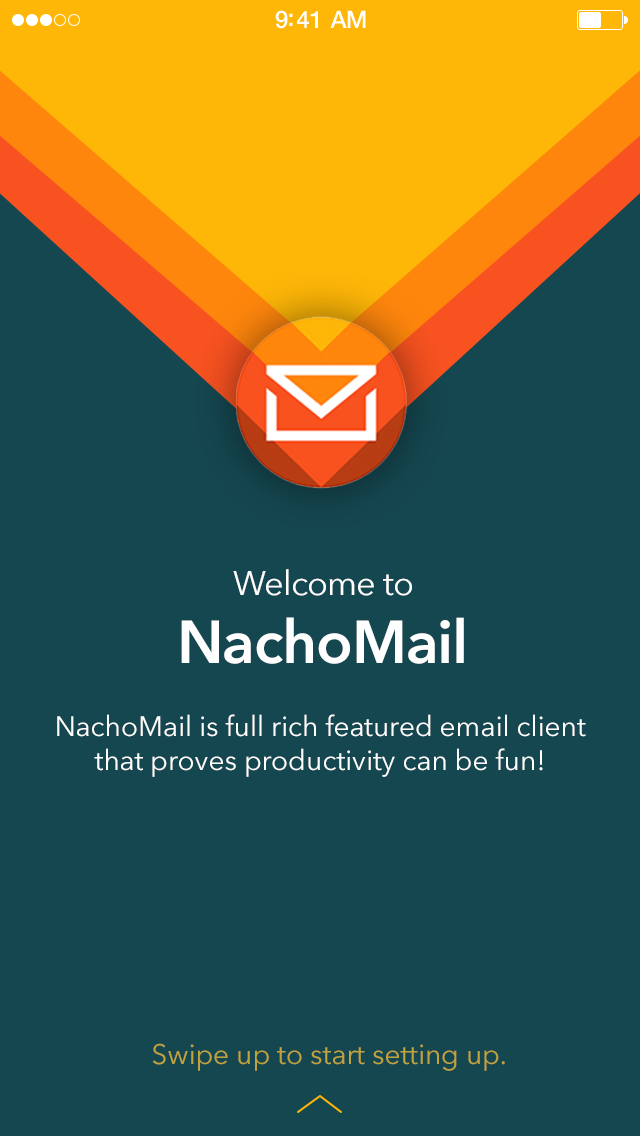
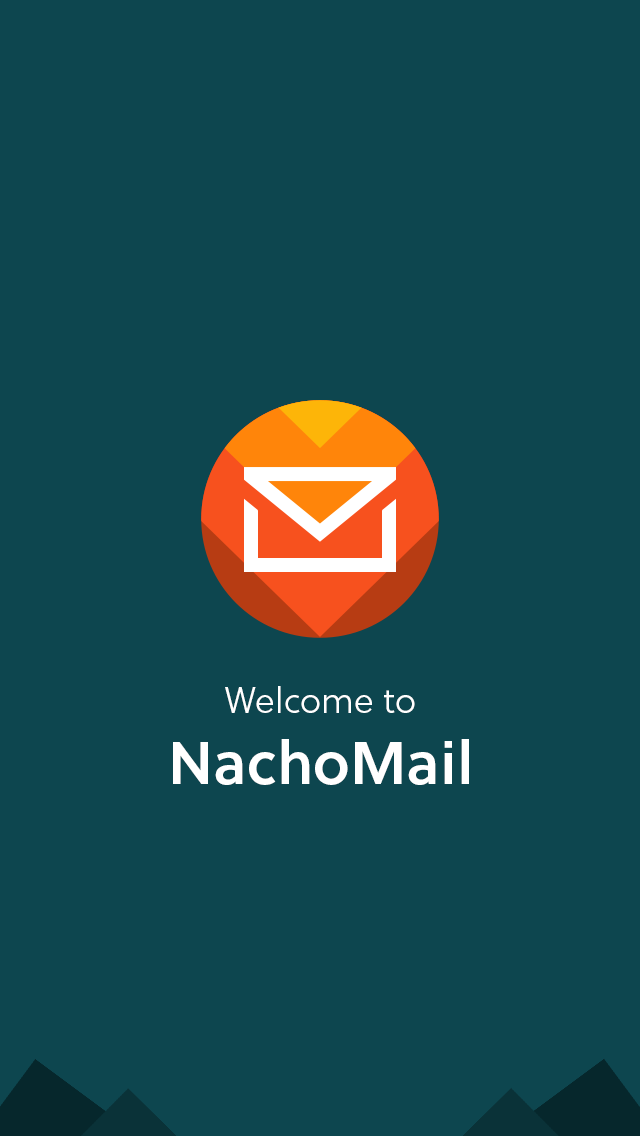
Updated Login Screen, added new Splash Screens

diff --git a/NachoClient.iOS/NachoUI.iOS/LaunchViewController.cs b/NachoClient.iOS/NachoUI.iOS/LaunchViewController.cs
@@ -8,6 +8,7 @@ using MonoTouch.UIKit;
 using NachoCore;
 using NachoCore.Model;
 using NachoCore.Utils;
+using MonoTouch.CoreGraphics;
 
 namespace NachoClient.iOS
 {
@@ -17,6 +18,13 @@ namespace NachoClient.iOS
 
         float yOffset;
         float keyboardHeight;
+
+        protected UIImageView circleMail;
+        protected UILabel startLabel;
+        protected UIView emailBox;
+        protected UIView passwordBox;
+        protected UIButton submitButton;
+        protected UIButton advancedButton;
 
         public LaunchViewController (IntPtr handle) : base (handle)
         {
@@ -47,6 +55,24 @@ namespace NachoClient.iOS
                 NSNotificationCenter.DefaultCenter.AddObserver (UIKeyboard.WillShowNotification, OnKeyboardNotification);
                 NSNotificationCenter.DefaultCenter.AddObserver (UITextField.TextFieldTextDidChangeNotification, OnTextFieldChanged);
             }
+
+            UIView.AnimateKeyframes (1.6, 0, UIViewKeyframeAnimationOptions.OverrideInheritedDuration, () => {
+
+                UIView.AddKeyframeWithRelativeStartTime (0, .5, () => {
+                    circleMail.Transform = CGAffineTransform.MakeScale (2.0f / 3.0f, 2.0f / 3.0f);
+                    circleMail.Center = new PointF (160, View.Frame.Height / 4.369f);
+                });
+
+                UIView.AddKeyframeWithRelativeStartTime (.5, .5, () => {
+                    startLabel.Alpha = 1.0f;
+                    emailBox.Alpha = 1.0f;
+                    passwordBox.Alpha = 1.0f;
+                    submitButton.Alpha = 1.0f;
+                    advancedButton.Alpha = 1.0f;
+                });
+
+            }, ((bool finished) => {
+            }));
         }
 
         public override void ViewWillDisappear (bool animated)
@@ -78,27 +104,29 @@ namespace NachoClient.iOS
             scrollView.BackgroundColor = A.Color_NachoGreen;
             contentView.BackgroundColor = A.Color_NachoGreen;
 
-            yOffset = 90;
+            //yOffset = View.Frame.Height - 368;
 
-            UIImageView circleMail = new UIImageView (UIImage.FromBundle ("Loginscreen-1"));
-            circleMail.Frame = new RectangleF (120, yOffset, 80, 80);
+            circleMail = new UIImageView (UIImage.FromBundle ("Bootscreen-1"));
+            circleMail.Frame = new RectangleF (View.Frame.Width / 2 - 60, (View.Frame.Height == 480 ? 155 : 200), 120, 120);
             contentView.AddSubview (circleMail);
 
-            yOffset = circleMail.Frame.Bottom + 35;
+            yOffset = View.Frame.Height - 363 + (View.Frame.Height == 480 ? 40 : 0);
 
-            UILabel startLabel = new UILabel (new RectangleF (30, yOffset, View.Frame.Width - 60, 50));
+            startLabel = new UILabel (new RectangleF (30, yOffset, View.Frame.Width - 60, 50));
             startLabel.Text = "Start by entering your Exchange email address and password.";
             startLabel.Lines = 2;
             startLabel.BackgroundColor = A.Color_NachoGreen;
             startLabel.TextColor = UIColor.White;
             startLabel.Font = A.Font_AvenirNextRegular17;
             startLabel.TextAlignment = UITextAlignment.Center;
+            startLabel.Alpha = 0.0f;
             contentView.AddSubview (startLabel);
 
             yOffset = startLabel.Frame.Bottom + 32f;
 
-            UIView emailBox = new UIView (new RectangleF (25, yOffset, View.Frame.Width - 50, 46));
+            emailBox = new UIView (new RectangleF (25, yOffset, View.Frame.Width - 50, 46));
             emailBox.BackgroundColor = UIColor.White;
+            emailBox.Alpha = 0.0f;
 
             var emailField = new UITextField (new RectangleF (45, 0, emailBox.Frame.Width - 50, emailBox.Frame.Height));
             emailField.BackgroundColor = UIColor.White;
@@ -120,8 +148,9 @@ namespace NachoClient.iOS
 
             yOffset = emailBox.Frame.Bottom + 4f;
 
-            UIView passwordBox = new UIView (new RectangleF (25, yOffset, View.Frame.Width - 50, 46));
+            passwordBox = new UIView (new RectangleF (25, yOffset, View.Frame.Width - 50, 46));
             passwordBox.BackgroundColor = UIColor.White;
+            passwordBox.Alpha = 0.0f;
 
             var passwordField = new UITextField (new RectangleF (45, 0, passwordBox.Frame.Width - 50, passwordBox.Frame.Height));
             passwordField.BackgroundColor = UIColor.White;
@@ -145,7 +174,7 @@ namespace NachoClient.iOS
 
             yOffset = passwordBox.Frame.Bottom + 40f;
 
-            var submitButton = new UIButton (new System.Drawing.RectangleF (25, yOffset, View.Frame.Width - 50, 46));
+            submitButton = new UIButton (new System.Drawing.RectangleF (25, yOffset, View.Frame.Width - 50, 46));
             submitButton.BackgroundColor = A.Color_NachoBlue;
             submitButton.TitleLabel.TextAlignment = UITextAlignment.Center;
             submitButton.SetTitle ("Submit", UIControlState.Normal);
@@ -154,6 +183,7 @@ namespace NachoClient.iOS
             submitButton.Layer.CornerRadius = 4f;
             submitButton.Layer.MasksToBounds = true;
             submitButton.Tag = SUBMIT_BUTTON_TAG;
+            submitButton.Alpha = 0.0f;
             contentView.AddSubview (submitButton);
 
             yOffset = submitButton.Frame.Bottom + 20f;
@@ -164,12 +194,13 @@ namespace NachoClient.iOS
                 }
             };
 
-            var advancedButton = new UIButton (new RectangleF (0, yOffset, View.Frame.Width, 20));
+            advancedButton = new UIButton (new RectangleF (0, yOffset, View.Frame.Width, 20));
             advancedButton.BackgroundColor = A.Color_NachoGreen;
             advancedButton.SetTitle ("Advanced Sign In", UIControlState.Normal);
             advancedButton.TitleLabel.TextColor = A.Color_NachoYellow;
             advancedButton.TitleLabel.Font = A.Font_AvenirNextRegular14;
             advancedButton.Tag = ADVANCED_SIGNIN_BUTTON_TAG;
+            advancedButton.Alpha = 0.0f;
             contentView.AddSubview (advancedButton);
             advancedButton.TouchUpInside += (object sender, EventArgs e) => {
                 PerformSegue ("SegueToAdvancedLogin", this);
@@ -184,7 +215,7 @@ namespace NachoClient.iOS
                 return true;
             };
 
-            yOffset = advancedButton.Frame.Bottom + 20;
+            yOffset = View.Frame.Height - 39;
 
             UIImageView loginTriangles = new UIImageView (UIImage.FromBundle ("Bootscreen-5"));
             loginTriangles.Frame = new RectangleF (0, yOffset, 320, 39);
@@ -197,10 +228,17 @@ namespace NachoClient.iOS
 
         protected void LayoutView ()
         {
-            scrollView.Frame = new RectangleF (0, 0, View.Frame.Width, View.Frame.Height - keyboardHeight);
-            var contentFrame = new RectangleF (0, 0, View.Frame.Width, yOffset);
-            contentView.Frame = contentFrame;
-            scrollView.ContentSize = contentFrame.Size;
+            UIView.AnimateKeyframes (1, 0, UIViewKeyframeAnimationOptions.OverrideInheritedDuration, () => {
+
+                UIView.AddKeyframeWithRelativeStartTime (0, 1, () => {
+                    scrollView.Frame = new RectangleF (0, 0, View.Frame.Width, View.Frame.Height - keyboardHeight);
+                    var contentFrame = new RectangleF (0, 0, View.Frame.Width, yOffset);
+                    contentView.Frame = contentFrame;
+                    scrollView.ContentSize = contentFrame.Size;
+                });
+
+            }, ((bool finished) => {
+            }));
         }
 
         private bool EnterFullConfiguration ()
